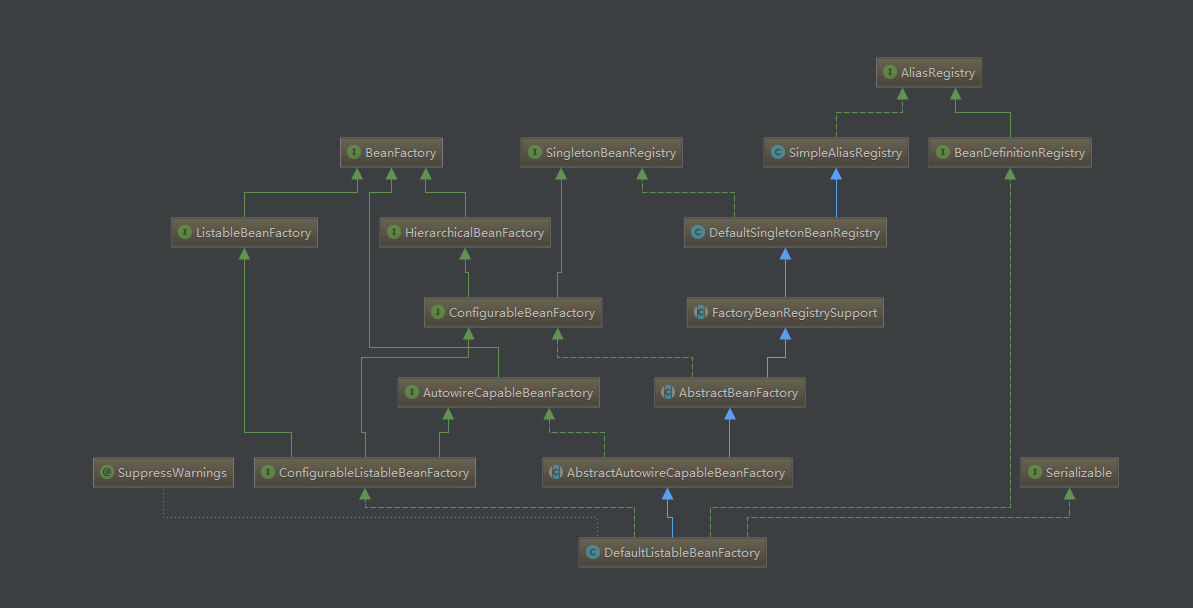
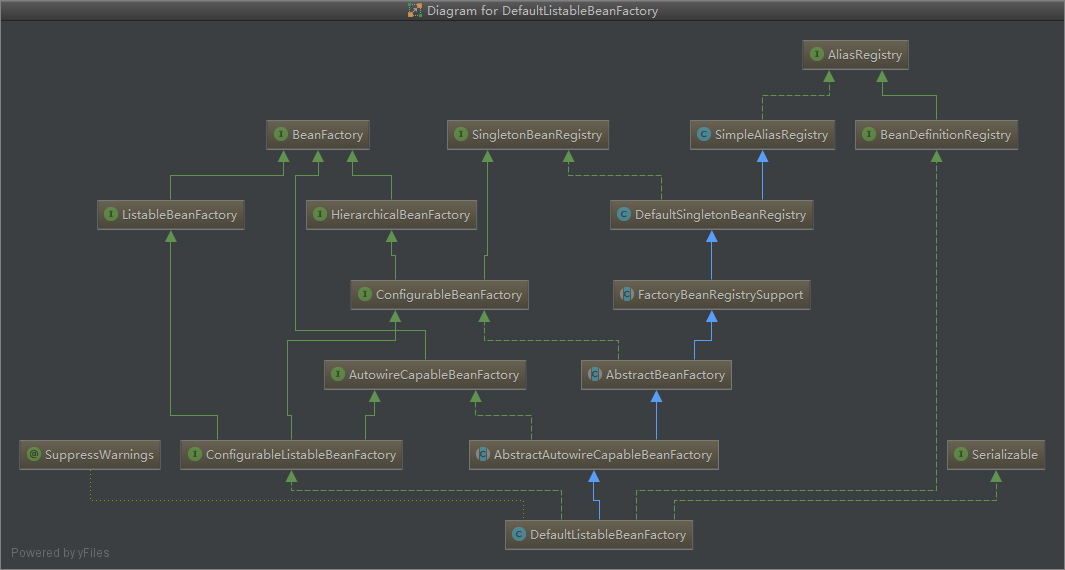
1

diff --git a/note/Spring核心类.md b/note/Spring核心类.md
@@ -6,4 +6,4 @@
 - DefaultListableBeanFactory是整个bean加载的核心部分，是Spring注册和加载bean的默认实现。
 - XmlBeanFactory使用了自己定义的XML读取器XmlBeanDefinitionReader实现了个性化的BeanDefinitionReader读取。
 - DefaultListableBeanFactory继承了AbstractAutowireCapableBeanFactory，实现了ConfigurableListableBeanFactory、BeanDefinitionRegistry接口。
-- 
+- ![](https://github.com/walmt/img/blob/master/img/2.png?raw=true)

diff --git a/note/Spring整体架构.md b/note/Spring整体架构.md
@@ -1,6 +1,6 @@
 # Spring的整体架构
 
-### ![](https://github.com/walmt/img/blob/master/1.png?raw=true)
+### ![](https://github.com/walmt/img/blob/master/img/1.png?raw=true)
 
 ### (1) Core Container
 
